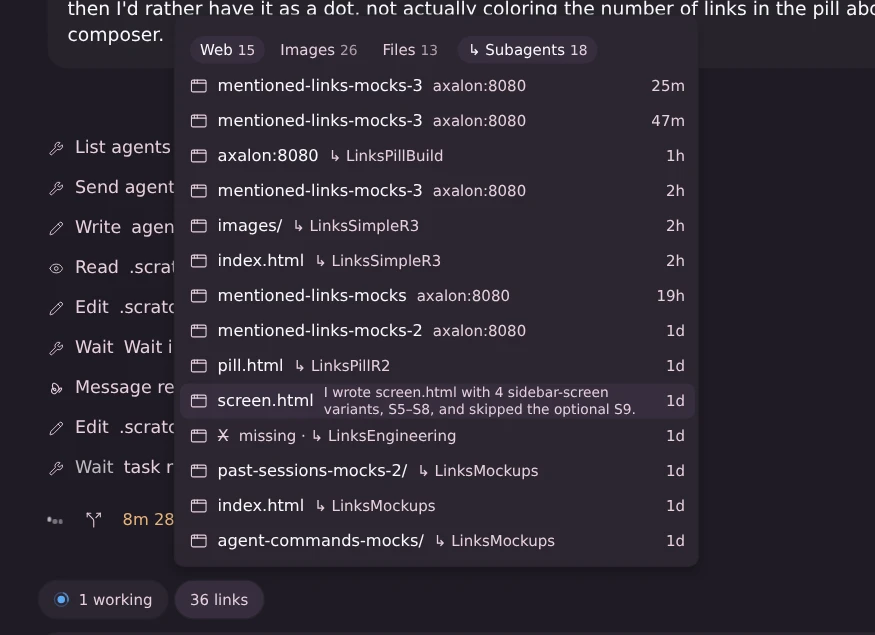
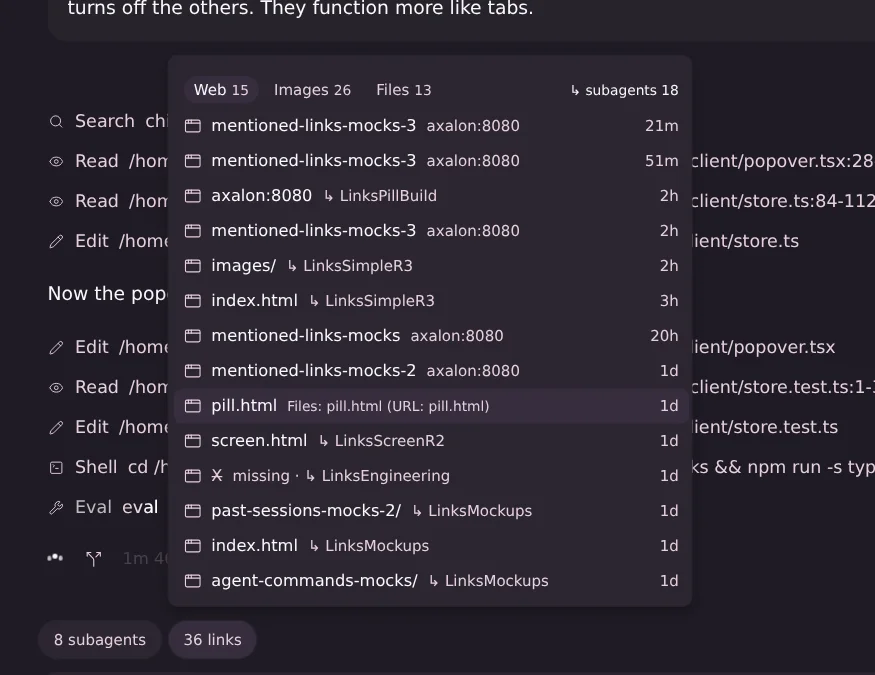
mentioned-links: type filters are single-choice tabs; sub-agents is a small right-aligned text switch, faint while off

diff --git a/paseo-plugins/mentioned-links/client/popover.tsx b/paseo-plugins/mentioned-links/client/popover.tsx
@@ -3,7 +3,7 @@ import { copyText, Icon, useToast } from "@getpaseo/plugin/client/react-native";
 import { useCallback, useEffect, useMemo, useState, useSyncExternalStore } from "react";
 import { Pressable, Text, View, type PressableStateCallbackType } from "react-native";
 import type { Link, LinkKind } from "../shared/links";
-import { kindCounts, shownKinds, subagentChoices, toggleKind, typeChoices, whereLabel, withSubagents, type LinksStore } from "./store";
+import { kindCounts, shownKind, subagentChoices, typeChoices, whereLabel, withSubagents, type LinksStore } from "./store";
 
 const KIND_LABEL: Record<LinkKind, string> = { web: "Web", image: "Images", file: "Files" };
 
@@ -30,11 +30,11 @@ export function createLinksPopover(store: LinksStore) {
     const { theme, layout, close } = props;
     const agentId = props.context === "agent" ? props.agentId : "";
     const chat = useSyncExternalStore(subscribe, () => store.get(agentId));
-    const [choice, setChoice] = useState<readonly LinkKind[] | undefined>(() => typeChoices.get(agentId));
+    const [choice, setChoice] = useState<LinkKind | undefined>(() => typeChoices.get(agentId));
     const choose = useCallback(
-      (kinds: readonly LinkKind[]) => {
-        typeChoices.set(agentId, kinds);
-        setChoice(kinds);
+      (kind: LinkKind) => {
+        typeChoices.set(agentId, kind);
+        setChoice(kind);
       },
       [agentId],
     );
@@ -70,8 +70,9 @@ export function createLinksPopover(store: LinksStore) {
       () => ({
         // The surface is 280–420 px wide and sizes to its content; rows want all of it.
         list: layout.compact ? {} : { width: 396 },
-        chips: { flexDirection: "row" as const, flexWrap: "wrap" as const, gap: 4, marginBottom: 4 },
-        chip: {
+        header: { flexDirection: "row" as const, alignItems: "center" as const, gap: 4, marginBottom: 4 },
+        tabs: { flex: 1, flexDirection: "row" as const, flexWrap: "wrap" as const, gap: 4 },
+        tab: {
           flexDirection: "row" as const,
           alignItems: "center" as const,
           gap: 4,
@@ -79,13 +80,14 @@ export function createLinksPopover(store: LinksStore) {
           paddingHorizontal: 8,
           borderRadius: 11,
         },
-        chipOn: { backgroundColor: theme.colors.surface2 },
-        // A little apart: it adds rows, the type chips pick among them.
-        subagentChip: { marginLeft: 4 },
-        chipText: { fontSize: 12, color: muted },
-        chipTextOn: { fontSize: 12, color: theme.colors.foreground },
-        chipCount: { fontSize: 11, color: muted, fontVariant: ["tabular-nums" as const] },
-        chipCountOff: { fontSize: 11, color: muted, opacity: 0.7, fontVariant: ["tabular-nums" as const] },
+        tabOn: { backgroundColor: theme.colors.surface2 },
+        tabText: { fontSize: 12, color: muted },
+        tabTextOn: { fontSize: 12, color: theme.colors.foreground },
+        tabCount: { fontSize: 11, color: muted, fontVariant: ["tabular-nums" as const] },
+        // Not a tab: a small text switch that adds rows, faint while off.
+        subagents: { fontSize: 11, color: muted, opacity: 0.6, fontVariant: ["tabular-nums" as const] },
+        subagentsHover: { fontSize: 11, color: muted, fontVariant: ["tabular-nums" as const] },
+        subagentsOn: { fontSize: 11, color: theme.colors.foreground, fontVariant: ["tabular-nums" as const] },
         line: { fontSize: 12, color: muted },
         row: {
           flexDirection: "row" as const,
@@ -138,39 +140,44 @@ export function createLinksPopover(store: LinksStore) {
 
     const all = withSubagents(links, chat.subagentLinks, subagentsShown);
     const kinds = kindCounts(all);
-    const shown = shownKinds(all, choice);
-    const rows = all.filter((link) => shown.includes(link.kind));
+    const shown = shownKind(all, choice);
+    const rows = all.filter((link) => link.kind === shown);
     const now = Date.now();
     return (
       <View style={styles.list}>
         {kinds.length > 1 || extra ? (
-          <View style={styles.chips}>
-            {kinds.map(({ kind, count }) => {
-              const on = shown.includes(kind);
-              return (
-                <Pressable
-                  key={kind}
-                  accessibilityRole="button"
-                  accessibilityState={{ selected: on }}
-                  accessibilityLabel={`${on ? "Hide" : "Show"} ${KIND_LABEL[kind].toLowerCase()}`}
-                  onPress={() => choose(toggleKind(shown, kind))}
-                  style={({ hovered }: PressState) => [styles.chip, (on || hovered) && styles.chipOn]}
-                >
-                  <Text style={on ? styles.chipTextOn : styles.chipText}>{KIND_LABEL[kind]}</Text>
-                  <Text style={on ? styles.chipCount : styles.chipCountOff}>{count}</Text>
-                </Pressable>
-              );
-            })}
+          <View style={styles.header}>
+            <View style={styles.tabs}>
+              {kinds.length > 1
+                ? kinds.map(({ kind, count }) => {
+                    const on = kind === shown;
+                    return (
+                      <Pressable
+                        key={kind}
+                        accessibilityRole="tab"
+                        accessibilityState={{ selected: on }}
+                        accessibilityLabel={`Show ${KIND_LABEL[kind].toLowerCase()}`}
+                        onPress={() => choose(kind)}
+                        style={({ hovered }: PressState) => [styles.tab, (on || hovered) && styles.tabOn]}
+                      >
+                        <Text style={on ? styles.tabTextOn : styles.tabText}>{KIND_LABEL[kind]}</Text>
+                        <Text style={styles.tabCount}>{count}</Text>
+                      </Pressable>
+                    );
+                  })
+                : null}
+            </View>
             {extra ? (
               <Pressable
-                accessibilityRole="button"
-                accessibilityState={{ selected: subagentsShown }}
+                accessibilityRole="switch"
+                accessibilityState={{ checked: subagentsShown }}
                 accessibilityLabel={subagentsShown ? "Hide links from subagents" : `Show ${extra} more ${extra === 1 ? "link" : "links"} from subagents`}
                 onPress={toggleSubagents}
-                style={({ hovered }: PressState) => [styles.chip, styles.subagentChip, (subagentsShown || hovered) && styles.chipOn]}
+                hitSlop={6}
               >
-                <Text style={subagentsShown ? styles.chipTextOn : styles.chipText}>↳ Subagents</Text>
-                <Text style={subagentsShown ? styles.chipCount : styles.chipCountOff}>{extra}</Text>
+                {({ hovered }: PressState) => (
+                  <Text style={subagentsShown ? styles.subagentsOn : hovered ? styles.subagentsHover : styles.subagents}>{`↳ subagents ${extra}`}</Text>
+                )}
               </Pressable>
             ) : null}
           </View>

diff --git a/paseo-plugins/mentioned-links/client/store.test.ts b/paseo-plugins/mentioned-links/client/store.test.ts
@@ -1,34 +1,27 @@
 import { describe, expect, it } from "vitest";
 import type { Link, LinkKind } from "../shared/links";
-import { kindCounts, shownKinds, toggleKind, whereLabel, withSubagents } from "./store";
+import { kindCounts, shownKind, whereLabel, withSubagents } from "./store";
 
 const link = (kind: LinkKind, n: number): Link => ({ key: `${kind}:${n}`, kind, title: `${kind} ${n}`, where: "", glyph: "File", lastAt: n });
 
-describe("type chips", () => {
-  it("lists only the types a chat has, in chip order", () => {
+describe("type tabs", () => {
+  it("lists only the types a chat has, in tab order", () => {
     expect(kindCounts([link("file", 1), link("image", 2), link("file", 3)])).toEqual([
       { kind: "image", count: 1 },
       { kind: "file", count: 2 },
     ]);
   });
 
-  it("show only web by default when the chat also has other types, else everything", () => {
-    expect(shownKinds([link("image", 1), link("web", 2), link("file", 3)], undefined)).toEqual(["web"]);
-    expect(shownKinds([link("image", 1), link("file", 2)], undefined)).toEqual(["image", "file"]);
-    expect(shownKinds([link("file", 1), link("file", 2)], ["image"])).toEqual(["file"]);
+  it("open on Web when the chat has web links, else on its first type", () => {
+    expect(shownKind([link("image", 1), link("web", 2), link("file", 3)], undefined)).toBe("web");
+    expect(shownKind([link("file", 1), link("image", 2)], undefined)).toBe("image");
+    expect(shownKind([], undefined)).toBeNull();
   });
 
-  it("keep the chips the user switched on while those types are present, else fall back", () => {
+  it("keep the user's tab while that type is present, else fall back", () => {
     const chat = [link("web", 1), link("image", 2), link("file", 3)];
-    expect(shownKinds(chat, ["image", "file"])).toEqual(["image", "file"]);
-    expect(shownKinds([link("web", 1), link("image", 2)], ["file"])).toEqual(["web"]);
-  });
-
-  it("switch one type on or off, in chip order, but never the last one off", () => {
-    expect(toggleKind(["file"], "web")).toEqual(["web", "file"]);
-    expect(toggleKind(["web", "file"], "web")).toEqual(["file"]);
-    const last = ["image"] as const;
-    expect(toggleKind(last, "image")).toBe(last);
+    expect(shownKind(chat, "file")).toBe("file");
+    expect(shownKind([link("web", 1), link("image", 2)], "file")).toBe("web");
   });
 });
 

diff --git a/paseo-plugins/mentioned-links/client/store.ts b/paseo-plugins/mentioned-links/client/store.ts
@@ -90,25 +90,17 @@ export function kindCounts(links: readonly Link[]): { kind: LinkKind; count: num
 }
 
 /**
- * The types a chat's popover shows: the user's chips in that chat that are still present; else,
- * with two or more types, Web alone when the chat has web links; else every type.
+ * The one type a chat's popover shows, like a tab: the user's pick in that chat while that type is
+ * still present, else Web when the chat has web links, else its first type. Null without links.
  */
-export function shownKinds(links: readonly Link[], choice: readonly LinkKind[] | undefined): LinkKind[] {
+export function shownKind(links: readonly Link[], choice: LinkKind | undefined): LinkKind | null {
   const kinds = kindCounts(links).map((entry) => entry.kind);
-  if (kinds.length < 2) return kinds;
-  const kept = kinds.filter((kind) => choice?.includes(kind));
-  if (kept.length) return kept;
-  return kinds.includes("web") ? ["web"] : kinds;
+  if (choice && kinds.includes(choice)) return choice;
+  return kinds.includes("web") ? "web" : (kinds[0] ?? null);
 }
 
-/** A chip tap: the type goes on or off, except the last one on, so the list never empties. */
-export function toggleKind(shown: readonly LinkKind[], kind: LinkKind): readonly LinkKind[] {
-  if (!shown.includes(kind)) return KIND_ORDER.filter((each) => each === kind || shown.includes(each));
-  return shown.length > 1 ? shown.filter((each) => each !== kind) : shown;
-}
-
-/** Each chat's types switched on, for this app session only. */
-export const typeChoices = new Map<string, readonly LinkKind[]>();
+/** Each chat's picked type, for this app session only. */
+export const typeChoices = new Map<string, LinkKind>();
 
 /** Chats whose popover shows sub-agent links, for this app session only. */
 export const subagentChoices = new Set<string>();

diff --git a/paseo-plugins/mentioned-links/OVERVIEW.md b/paseo-plugins/mentioned-links/OVERVIEW.md
@@ -1,6 +1,6 @@
 # Mentioned links
 
-A **links** pill in each chat's composer, next to btw and the other pills. It counts every link that you and the agent mentioned in this chat, worded like Paseo's own pills (`6/6 tasks`, `5 subagents`): `6 links`, `1 link`, `0 links`, text only. Paseo requires an icon for plugin pills and keeps a 16 px slot for it; on web/desktop the plugin hides that slot, on the native apps it stays as a small blank gap. Open it for the list, newest mention first, one row per link: a type icon, the name, the host or folder in muted text, and how long ago it was last mentioned. The list has no title line: its only header is the chip row below, and without chips the rows start at the top. On phones the list opens as a bottom sheet. The list scrolls inside the popover.
+A **links** pill in each chat's composer, next to btw and the other pills. It counts every link that you and the agent mentioned in this chat, worded like Paseo's own pills (`6/6 tasks`, `5 subagents`): `6 links`, `1 link`, `0 links`, text only. Paseo requires an icon for plugin pills and keeps a 16 px slot for it; on web/desktop the plugin hides that slot, on the native apps it stays as a small blank gap. Open it for the list, newest mention first, one row per link: a type icon, the name, the host or folder in muted text, and how long ago it was last mentioned. The list has no title line: its only header is the type tabs and the sub-agents switch below, and without them the rows start at the top. On phones the list opens as a bottom sheet. The list scrolls inside the popover.
 
 ![Popover, dark](screenshots/desktop-dark.webp)
 
@@ -12,13 +12,13 @@ Links are sorted by what a click does.
 - **Images**: image URLs, and image files under `~/www/webshare/` (shown by their `http://axalon:8080/…` address). Click opens the image.
 - **Files**: every other local path, including images outside the webshare. Click copies the absolute path, with the `:line` or `:a-b` suffix of its newest mention, and the row briefly says "copied".
 
-**Type chips.** The list's header is one chip per type the chat has, with its count (`Web 5 · Images 24 · Files 7`); a type with no links gets no chip, and the row appears only when the chat has at least two types (or the sub-agents chip, below). Each chip switches its own type on or off. By default only **Web** is on (when the chat has web links; otherwise every type). Chips that are off keep their name and count in muted text, without the chip background. Tapping the last chip that is on does nothing, so the list never empties. The choice is kept per chat until the app reloads.
+**Type tabs.** The list's header is one tab per type the chat has, with its count (`Web 5 · Images 24 · Files 7`); a type with no links gets no tab, and tabs appear only when the chat has at least two types. One type shows at a time: tapping a tab shows that type and turns the others off. It opens on **Web** when the chat has web links, otherwise on its first type. The choice is kept per chat until the app reloads.
 
-![Chips, sub-agent links on, a hovered row's sentence](screenshots/subagents-dark.webp)
+![Type tabs, sub-agents switch on, sub-agent rows](screenshots/subagents-dark.webp)
 
 A webshare path and its `http://axalon:8080` URL are one row. Non-image files in the webshare (for example `~/www/webshare/pages/x.html`) are Web rows. The same path with different line suffixes is one row.
 
-**Sub-agent links.** When the chat's sub-agents mentioned links that the chat itself never did, one more chip ends the chip row: **↳ Subagents 18**, off by default. Switching it on merges those links into the list by time, each marked `↳ <sub-agent>` in the muted host/folder column. They count in the type chips like any other link; the pill keeps counting only the chat's own links. A link the chat also mentioned stays a plain row, so a chat with no sub-agents, or whose sub-agents only repeated its links, gets no such chip. If the chat has only one type, the row then shows that one chip plus the sub-agents chip. The choice is kept per chat until the app reloads.
+**Sub-agent links.** When the chat's sub-agents mentioned links that the chat itself never did, a small text switch sits right-aligned in the header: **↳ subagents 18**, faint while off, full colour while on. It isn't a tab: switching it on merges those links into the list by time, each marked `↳ <sub-agent>` in the muted host/folder column, and they count in the type tabs like any other link; the pill keeps counting only the chat's own links. A link the chat also mentioned stays a plain row, so a chat with no sub-agents, or whose sub-agents only repeated its links, gets no switch. With only one type, the header holds just the switch. The choice is kept per chat until the app reloads.
 
 Sub-agents are: OMP task sub-agents (`<session>/<Name>.jsonl`, nested ones and advisors included; named by file), Claude Code sub-agents (`<session>/subagents/agent-*.jsonl`; named by their task description), and Paseo child agents (label `paseo.parent-agent-id`, archived ones included; named by their title, read from their own transcripts, never through Paseo's history). The same rules as for the chat apply to their messages. When one link was mentioned by several sub-agents, the row names the one that mentioned it last.
 
@@ -64,5 +64,5 @@ After editing the source, run `npm run typecheck` and `paseo plugin reload menti
 - `phone-dark.webp`, `phone-light.webp`: 390 px wide, the list as a bottom sheet.
 - `empty-dark.webp`, `after-turn-dark.webp`: a throwaway Claude Code (Haiku) chat, deleted afterwards. Empty state first; a turn whose reply held a URL, a webshare image embed and a backticked file path turned the pill from `links` to `links 2` (with `+1 file`) about 4 seconds after sending, without reloading. A second turn with the list open added a GitHub row and `links 3` while the list stayed open.
 - First sub-agent version (2026-10-21; its `subagents-dark.webp` has since been re-shot): the Links chat with 7 OMP sub-agents. The header read `+18 from subagents` next to `+30 hidden`; after a click, Web went from 4 to 14 with rows such as `pill.html ↳ LinksPillR2` between the chat's own, the pill stayed `34 links`, and the choice survived closing and reopening the list. The Dispatcher chat (no sub-agents) showed no label. Over the RPC, the Grill chat with 9 Paseo children gave 6 extra links (`↳ Grill: …`) and two Claude Code chats in nilo-observatory and nilo-wayfinder gave 7 each, named by task description.
-- `subagents-dark.webp` (re-shot 2026-10-21, chips as toggles): the Links chat opened with only Web on (`Web 5`, `Images 24` and `Files 7` muted) and the `↳ Subagents 18` chip last. Images on, then Web off, then tapping Images (the last one on) left Images on with the same rows; Web back on and Images off returned to the 5 web rows. With `↳ Subagents` on, Web read 15, rows were marked `↳ LinksPillR2` and so on, and the sub-agent link `http://axalon:8080/X` (no such file in the webshare) showed struck through with `missing · ↳ LinksEngineering`. Hovering `screen.html` showed "I wrote screen.html with 4 sidebar-screen variants, S5–S8, and skipped the optional S9."
+- `subagents-dark.webp` (re-shot 2026-10-21, tabs + switch): the Links chat with Web selected and `↳ subagents 18` on at the right edge; Web read 15, rows marked `↳ LinksPillR2` and so on, and the sub-agent link `http://axalon:8080/X` (no such file) struck through as `missing · ↳ LinksEngineering`. Checked live: Images then Files each lit only their own tab (Files showed 13 rows with sub-agents, 7 without); the switch turned faint and the counts dropped back (Web 5 · Images 24 · Files 7) when switched off.
 - `missing-dark.webp`: the Parser chat (only files, plus 4 sub-agent links) showed `Files 15` and `↳ Subagents 4`; tapping `Files` did nothing. `ticket-format.md` (deleted since) is struck through as `missing`; hovering `AGENTS.md` showed its sentence. The OMP Commands chat (4 files, no sub-agents) showed no chip row, rows from the top, and `paseo-btw-test` as `missing` (the agent had deleted that folder); clicking it put `/home/cx/tmp-archive/paseo-btw-test` on the clipboard. A second copy click in the same headless tab got "Couldn't copy the path" from the browser's clipboard, not from the plugin.
